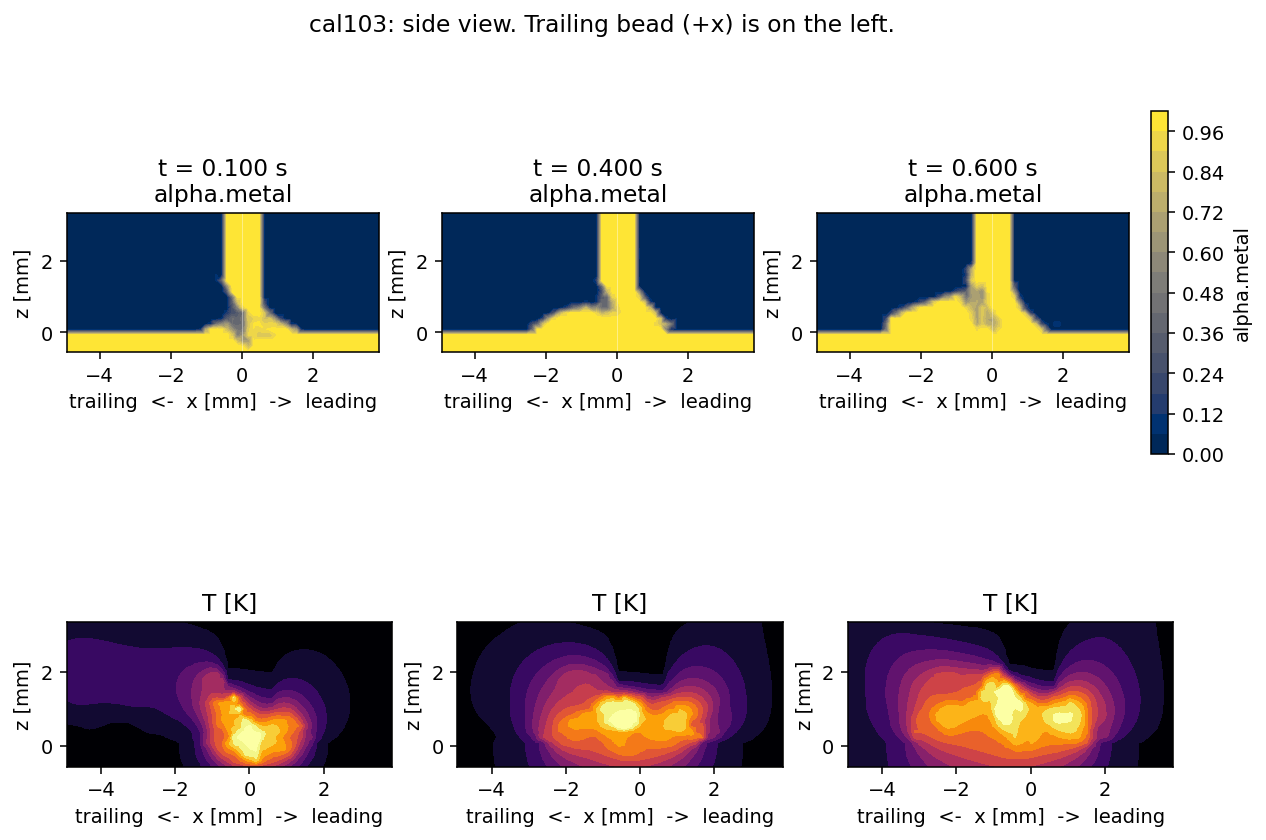
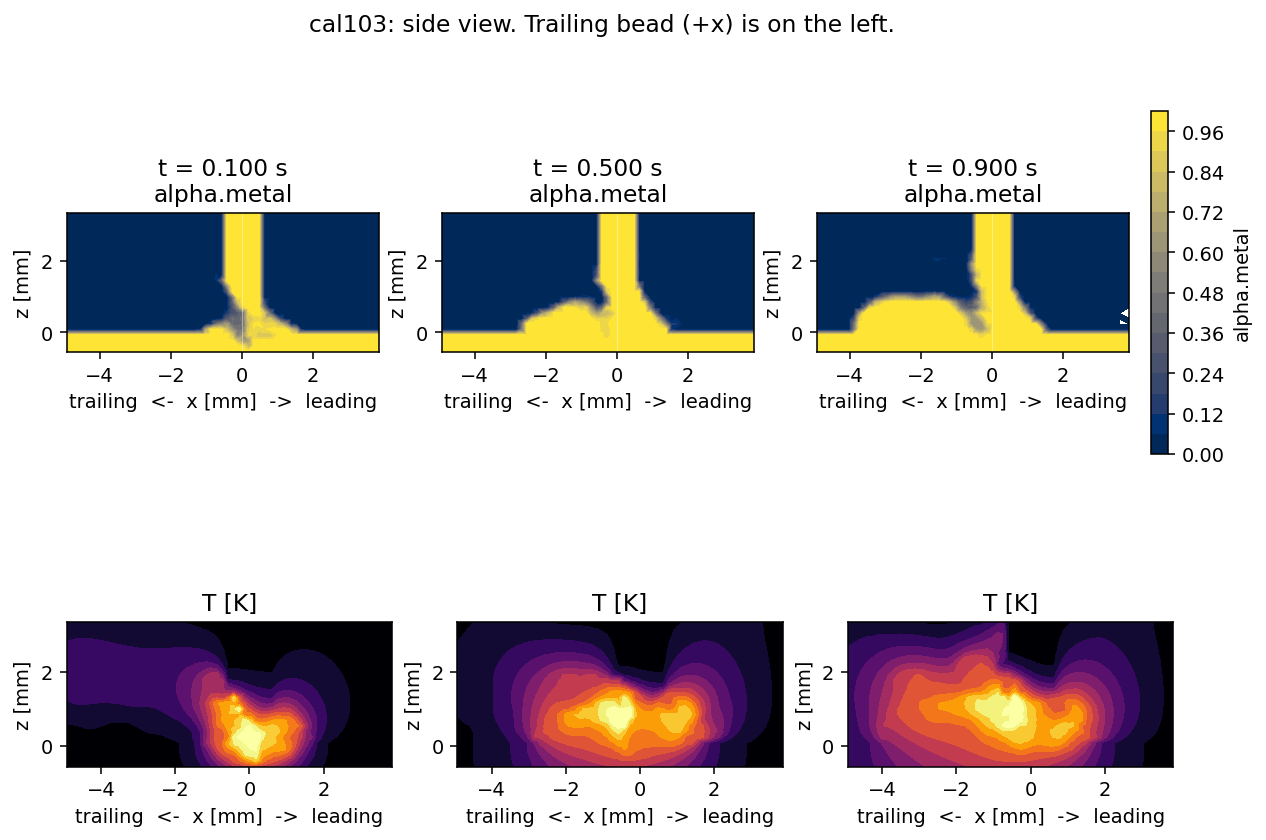
Post the fused notch. cal113 scores 8 and has no pool bubble.
At 0.65 s the 10/70 wire window on the preheated 20/55 plate holds a
1.61 / 0.99 mm dome, a pinned line, and 11/11 melted columns. The
wake stays open. By 0.90 s cal103 loses the pin and cal108 loses the crest.

diff --git a/results/calibration/taosun03/README.md b/results/calibration/taosun03/README.md
@@ -253,8 +253,9 @@ At 0.65 s the two runs that were continued from a wetted, partly fused bead are 
 
 | tag | t | score | trail / lead | plate | melt | wire line |
 | --- | --- | --- | --- | --- | --- | --- |
-| cal103 | 0.65 s | 7 | 1.76 / 1.15 mm | 0 of 38 receding | 4/13 | 9/9 pinned, z 1.30–1.91 mm, mean 39°, inside 30°/100°. The notch is on the crest. Continued to 0.90 s. |
-| cal108 | 0.65 s | 7 | 1.91 / 0.99 mm | 1 of 46 receding | 11/11 | 3/10 pinned, 7 receding, mean 24°, under the 30° floor. Full fusion. Continued to 0.90 s. |
+| cal113 | 0.65 s | 8 | 1.61 / 0.99 mm | 0 of 50 receding, 42° | 11/11 | 10/15 pinned, z 1.45–1.76 mm, mean 18°. Dome, notch, and full fusion. No bubble. Continued to 0.90 s. |
+| cal103 | 0.65 s | 7 | 1.76 / 1.15 mm | 0 of 38 receding | 4/13 | 9/9 pinned, z 1.30–1.91 mm, mean 39°. At 0.90 s the trail is 1.91 / 1.15 mm but only 3 of 8 wire cells stay pinned (mean 15°) and 6 of 21 columns are melted. Score 6. Stopped. |
+| cal108 | 0.65 s | 7 | 1.91 / 0.99 mm | 1 of 46 receding | 11/11 | 3/10 pinned, mean 24°. At 0.90 s the trail falls to 0.84 mm and the lead is 0.99 mm. Score 3. The 0.65 s cut is `cal108_0p65_side_alpha_T.png`. Stopped. |
 | cal109 | 0.65 s | 4 | 0.69 / 0.23 mm | 0 of 51 receding | 13/13 | Crest never grows. Not continued. |
 | cal104 | 0.65 s | 3 | 1.15 / 1.30 mm | 0 of 34 receding | 6/12 | Trail rose from 0.69 mm and is still under the lead. Not continued. |
 | cal105 | 0.65 s | 3 | 0.69 / 1.15 mm | 0 of 47 receding | 10/10 | Wire line up to 2.06 mm over a short trail. Not continued. |
@@ -264,4 +265,8 @@ At 0.65 s the two runs that were continued from a wetted, partly fused bead are 
 
 Center-plane cuts: `cal103_side_alpha_T.png`, `cal108_side_alpha_T.png`. The 0.65 s copies kept before the next continuation are `cal103_0p65_side_alpha_T.png` and `cal108_0p65_side_alpha_T.png`.
 
-cal103's 39° wire angle is why 30°/100° pins every cell. cal108's preheated pool sits at 24°, so the same window recedes. cal113 is that preheated pool with the floor lowered to 10°. At 0.36 s it already has 9 of 10 wire cells pinned and one receding plate cell. cal114 is cal103's pinned notch with substrate absorptivity raised from 0.55 to 0.65, and no preheat, to melt more of the trail columns.
+cal103's 39° wire angle is why 30°/100° pins every cell at 0.65 s. By 0.90 s that angle has fallen to 15° and the pin is gone, while the trail has grown to 1.91 mm. cal108's preheated pool sits at 24° at 0.65 s, so the same 30° floor recedes, and by 0.90 s the trailing crest has fallen to 0.84 mm. Neither holds a bubble. The open wake on these slices is still about 2–3 mm³.
+
+cal113 is that preheated pool with the wire floor lowered to 10° and the ceiling at 70°, on a 60° trailing sector. At 0.65 s it is the first run to take the dome, the notch, and a fully melted plate together: trail 1.61 mm, lead 0.99 mm, 11 of 11 columns melted, no receding plate cell, no gas sheet, 10 of 15 wire cells pinned from 1.45 to 1.76 mm. Score 8. The cavity report is still open, 2.77 mm³, and the only gas pores sit below the plate (z ≈ −0.6 mm), so nothing in the pool scores. Center-plane cut: `cal113_side_alpha_T.png`. It is continued to 0.90 s. The 0.65 s copy is `cal113_0p65_side_alpha_T.png`.
+
+cal114 is cal103's pinned notch with substrate absorptivity raised from 0.55 to 0.65, and no preheat, to melt more of the trail columns. It is still running.
